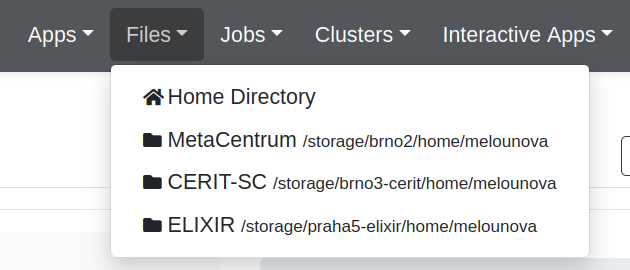
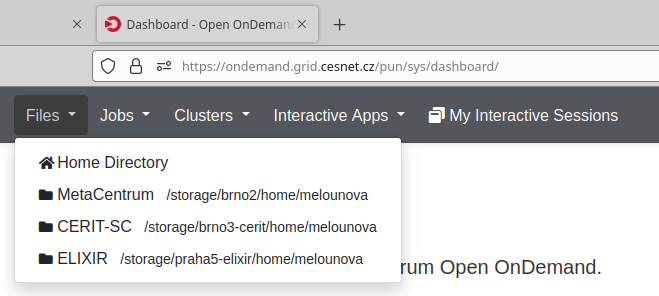
Re-screenshot OnDemand page after update.

diff --git a/docs/software/services/ondemand/index.md b/docs/software/services/ondemand/index.md
@@ -80,14 +80,13 @@ Clicking on "Shell access" will open ssh connection in your browser:
 
 ![pic](shell-login.png)
 
-## Apps/Interactive Apps
+## Interactive apps
 
-The "Apps" tab lists all **environments**, **shell access** buttons as well as **graphical software** that can be run from the OnDemand interface.
+The "Interactive apps" tab lists all **environments**, **shell access** buttons as well as **graphical software** that can be run from the OnDemand interface.
 
 The "Interactive Apps" tab lists **all graphical software** that is run as interactive jobs.
 
-![pic](all-apps.png)
-![pic](interact-apps.png)
+![pic](apps.png)
 
 *Technically, `Interactive Apps` is a subset of `Apps`.*
 
